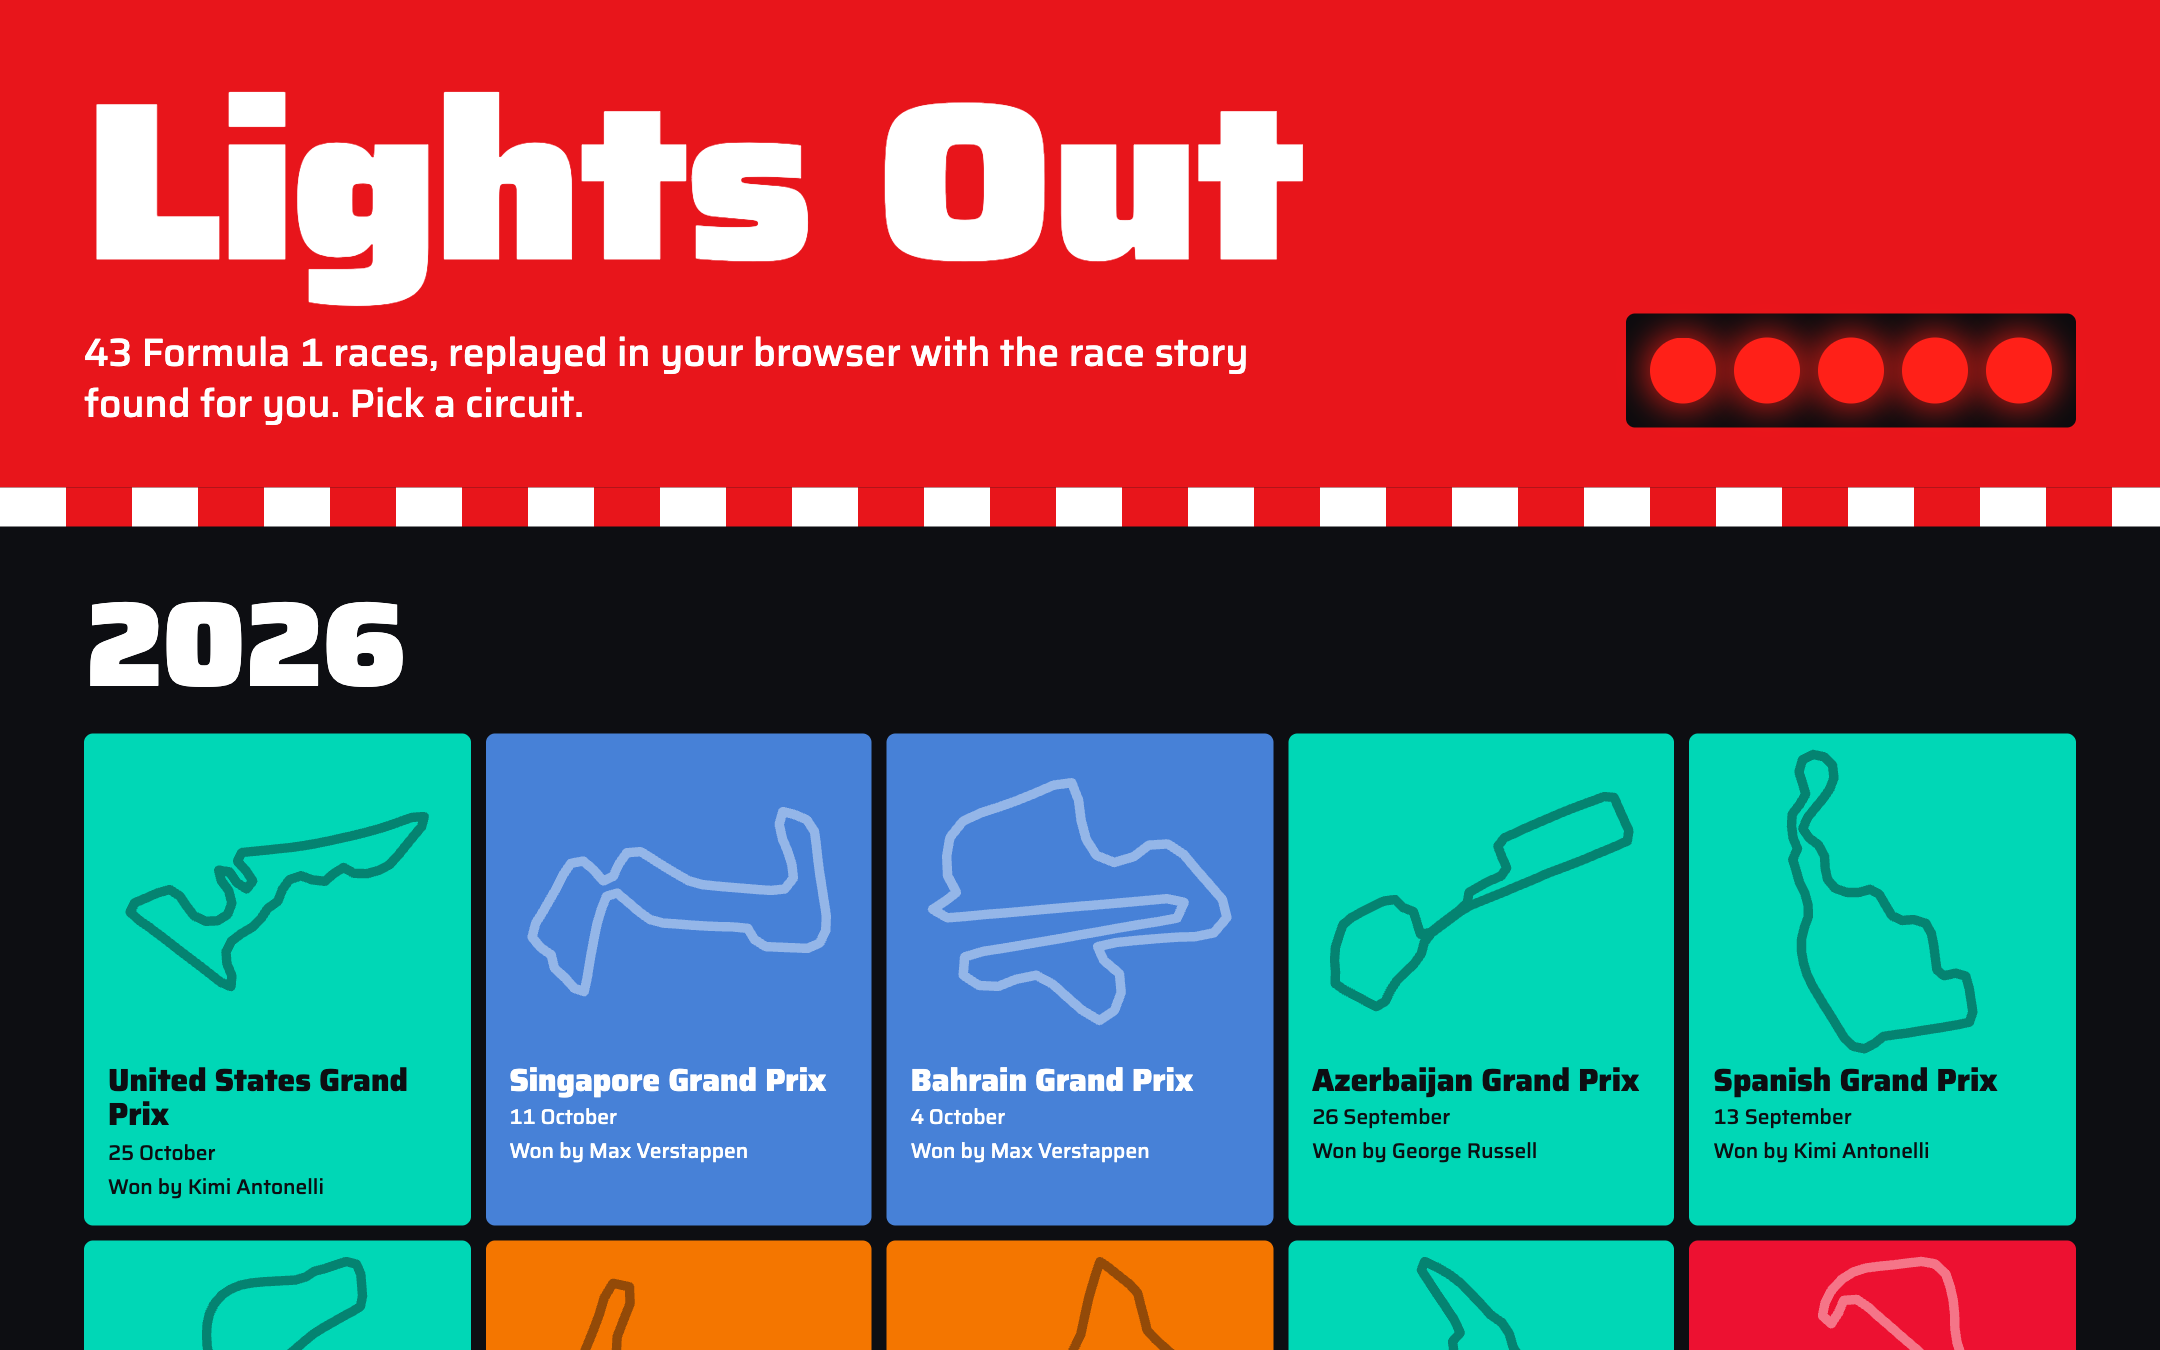
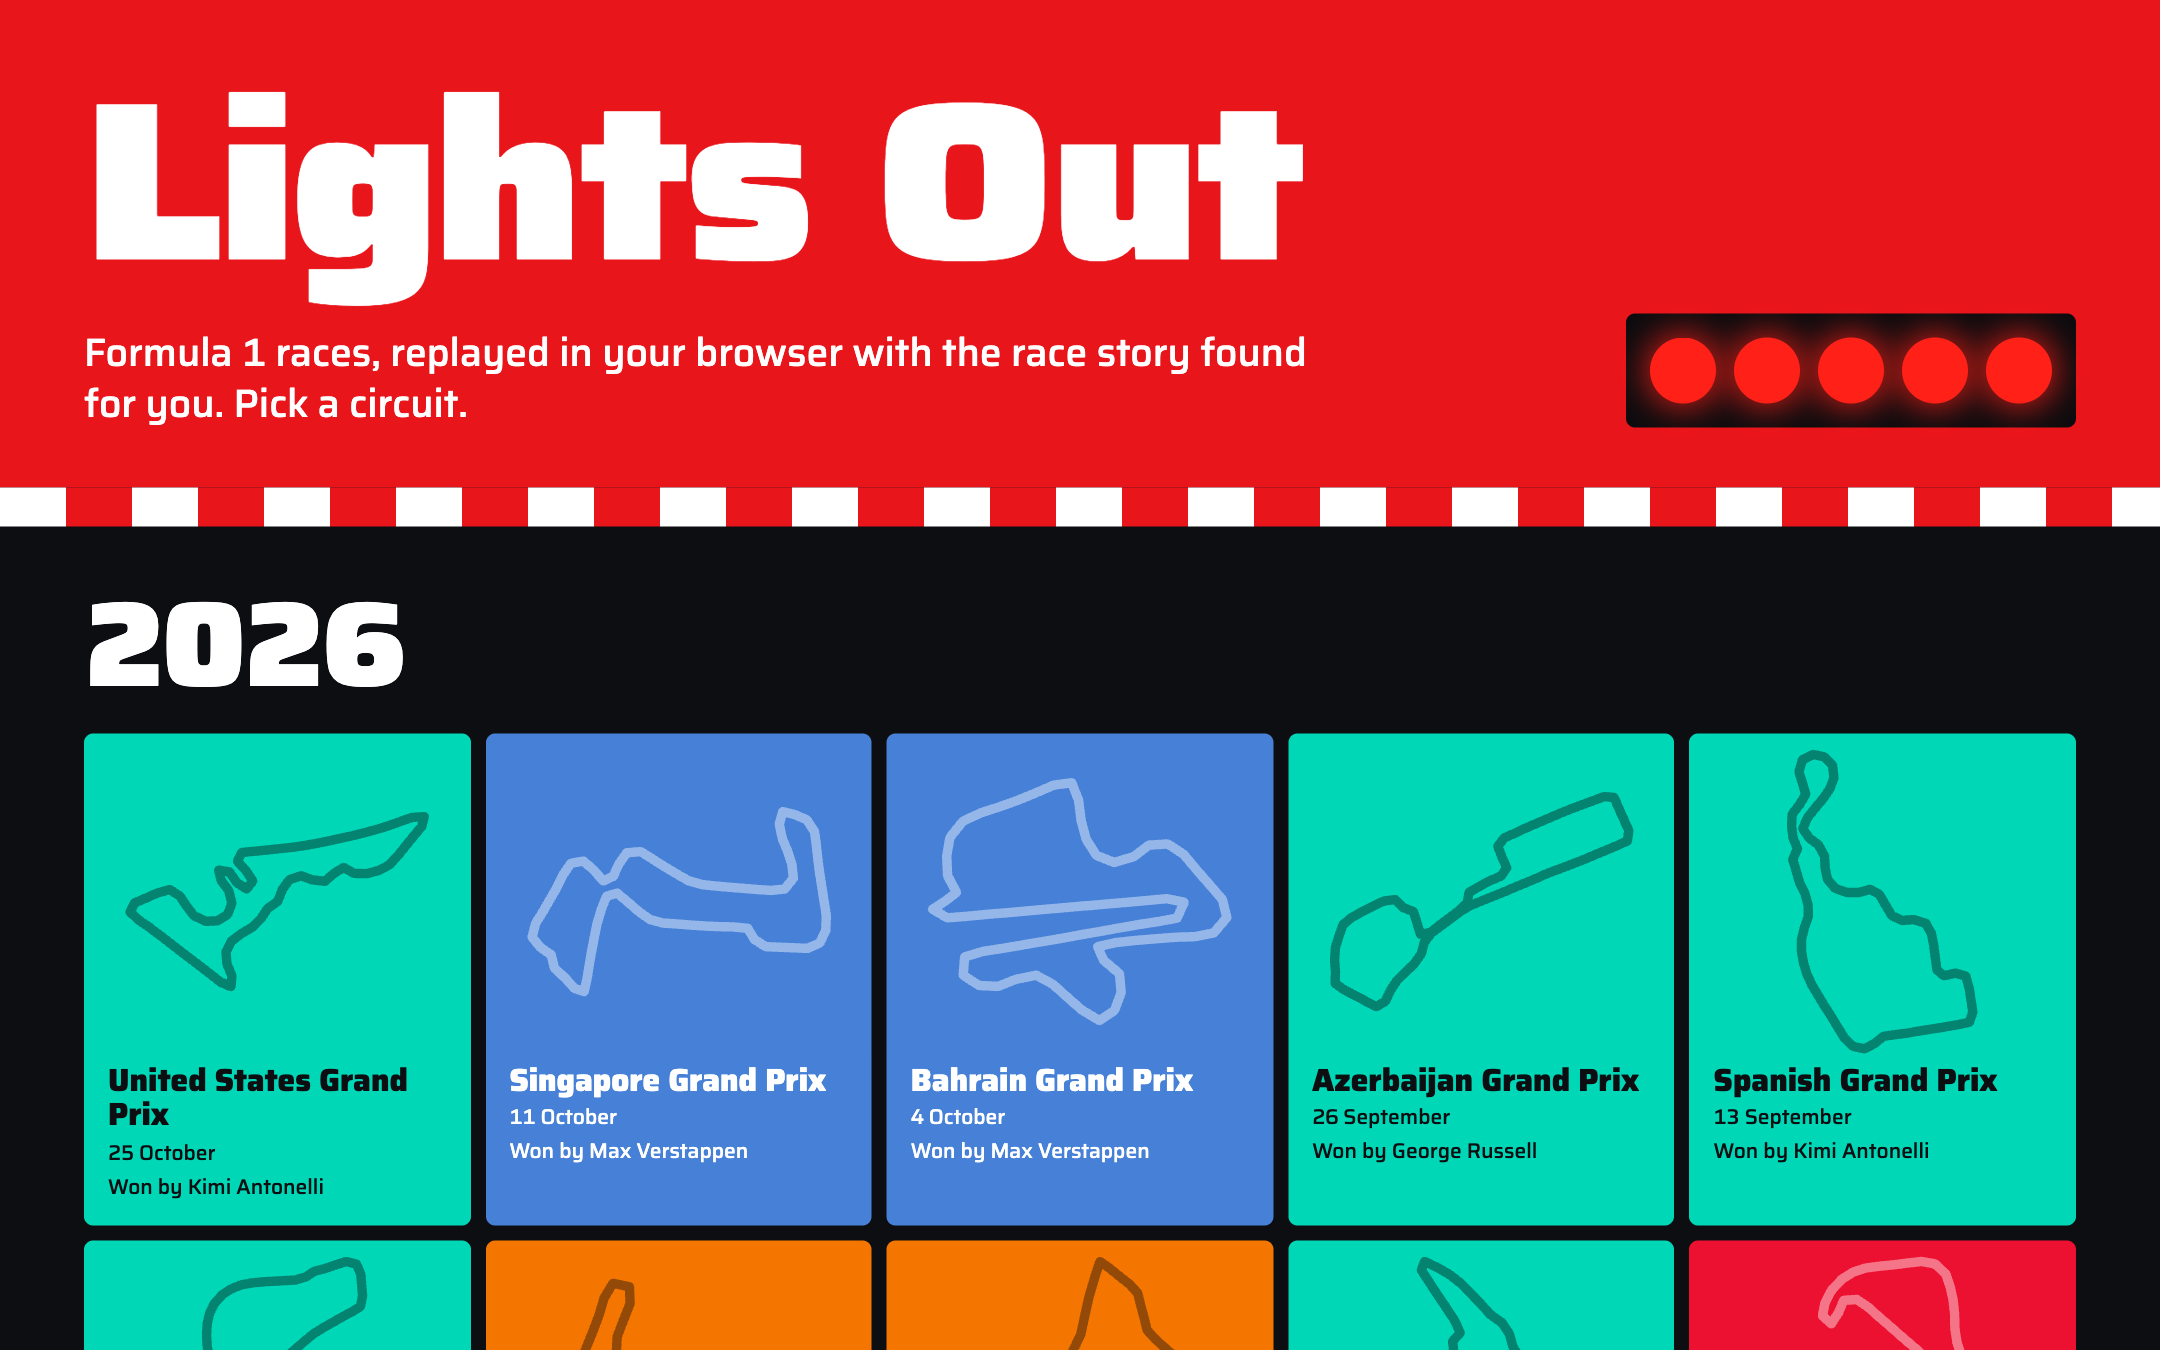
Remove the race count from the site and README

Changed region(s): [[0.031, 0.2489, 0.6204, 0.3111]]

diff --git a/web/index.html b/web/index.html
@@ -21,7 +21,7 @@
     <header class="hero">
       <div>
         <h1>Lights Out</h1>
-        <p id="hero-line" class="hero-line">Formula 1 races, replayed in your browser with the race story found for you.</p>
+        <p id="hero-line" class="hero-line">Formula 1 races, replayed in your browser with the race story found for you. Pick a circuit.</p>
       </div>
       <div class="gantry-hero" aria-hidden="true"><i></i><i></i><i></i><i></i><i></i></div>
     </header>

diff --git a/web/app.js b/web/app.js
@@ -1145,8 +1145,6 @@ function buildPicker() {
     section.append(heading, grid);
     return section;
   }));
-  $("hero-line").textContent =
-    `${state.races.length} Formula 1 races, replayed in your browser with the race story found for you. Pick a circuit.`;
 }
 
 function route() {

diff --git a/README.md b/README.md
@@ -2,7 +2,7 @@
 
 # Lights Out
 
-**43 Formula 1 races, replayed in your browser in 2D and 3D, with real engine sound, team radio and the race story found for you.**
+**Formula 1 races, replayed in your browser in 2D and 3D, with real engine sound, team radio and the race story found for you.**
 
 [**Open the live replay**](https://dhairya-007.github.io/lights-out/)
 
